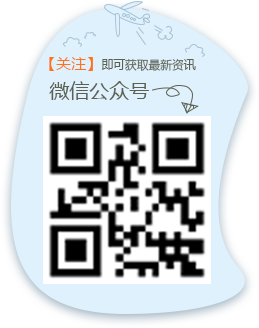
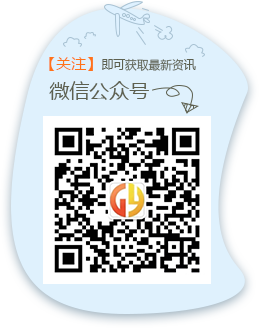
资讯

Changed region(s): [[0.1853, 0.3659, 0.8031, 0.8537]]

diff --git a/src/components/HelpCenter.vue b/src/components/HelpCenter.vue
@@ -25,7 +25,9 @@
             新手上路
           </div>
           <ul class="list">
-            <li v-for="item in 6">安全保障：在众易融平台借款有什么保障措施？</li>
+            <li v-for="item in freshmanList">
+              <a :href="item.url">{{item.title}}</a>
+            </li>
           </ul>
         </div>
         <div class="content" v-if="index==1">
@@ -33,7 +35,9 @@
             常见问题
           </div>
           <ul class="list">
-            <li v-for="item in 6">安全保障：在众易融平台借款有什么保障措施？</li>
+            <li v-for="item in problemList">
+              <a :href="item.url">{{item.title}}</a>
+            </li>
           </ul>
         </div>
         <div class="content" v-if="index==2">
@@ -41,7 +45,9 @@
             温馨提示
           </div>
           <ul class="list">
-            <li v-for="item in 6">安全保障：在众易融平台借款有什么保障措施？</li>
+            <li v-for="item in hintList">
+              <a :href="item.url">{{item.title}}</a>
+            </li>
           </ul>
         </div>
       </el-col>
@@ -51,14 +57,35 @@
 </template>
 
 <script>
+import LoanService from '@/services/LoanService';
+
 export default {
   data() {
     return {
       index: '0',
+      freshmanList: [],
+      problemList: [],
+      hintList: [],
     };
+  },
+  methods: {
+    async fetchList(id) {
+      let list = (await LoanService.contentList({
+        params: {
+          channelIds: id,
+          count: 10,
+          first: this.first,
+        },
+      })).data;
+      list = list.slice(1);
+      return list
+    }
   },
   async mounted() {
     this.index = this.$route.params.index || '0';
+    this.freshmanList = await this.fetchList(114);
+    this.problemList = await this.fetchList(109);
+    this.hintList = await this.fetchList(115);
   },
 };
 </script>
@@ -107,6 +134,9 @@ export default {
         padding-top: 32px;
         font-size: 16px;
         color: $title-color;
+        a{
+          color: $title-color;
+        }
       }
     }
   }

diff --git a/src/components/News.vue b/src/components/News.vue
@@ -8,7 +8,7 @@
           <div class="item" v-for="item in list">
             <img src="../assets/img/news-img.jpg" alt="">
             <div class="content" >
-              <div class="title">{{item.title}}</div>
+              <div class="title"><a :href="item.url">{{item.title}}</a></div>
               <div class="time">
                 2017-11-21  16:31:12
               </div>
@@ -16,13 +16,12 @@
             </div>
           </div>
           <el-pagination
-          @size-change="handleSizeChange"
           @current-change="handleCurrentChange"
           :current-page="currentPage4"
           :page-sizes="[100, 200, 300, 400]"
-          :page-size="100"
+          :page-size="5"
           layout="total, prev, pager, next, jumper"
-          :total="400"
+          :total="total"
           class="pagination">
         </el-pagination>
         </div>
@@ -39,18 +38,32 @@ export default {
   data() {
     return {
       list: [],
+      total: '',
+      first: 0,
     };
   },
   components: {
     TopBar,
   },
-  async mounted() {
-    this.list = (await LoanService.contentList({
-      params: {
-        channelIds: 98,
-      },
-    })).data;
-    this.list.splice(0, 6);
+  methods: {
+    handleCurrentChange(val) {
+      this.first = 5 * (val - 1) - 1;
+      this.fetchNews();
+    },
+    async fetchNews() {
+      this.list = (await LoanService.contentList({
+        params: {
+          channelIds: 98,
+          count: 6,
+          first: this.first,
+        },
+      })).data;
+      this.total = this.list[0].count;
+      this.list = this.list.slice(1);
+    }
+  },
+  mounted() {
+    this.fetchNews();
   },
 };
 </script>
@@ -89,6 +102,9 @@ export default {
             .time{
               font-size: 10px;
               margin-top: 10px;
+              color: $title-color;
+            }
+            a{
               color: $title-color;
             }
             p{

diff --git a/src/components/common/BaseApplicationForm.vue b/src/components/common/BaseApplicationForm.vue
@@ -25,7 +25,7 @@
         ]"
 
       >
-        <el-input type="captcha" v-model.number="applicationForm.captcha" auto-complete="off" placeholder="请输入验证码" class="captcha" size="medium"></el-input>
+        <el-input type="captcha" v-model.number="applicationForm.captcha" auto-complete="off" placeholder="请输入验证码" class="captcha" size="medium" ></el-input>
         <el-button type="primary"  class="getCaptcha" @click="getCaptcha" :disabled="getCaptchaDisabled">
           <span v-show="show">发送验证码</span>
           <span v-show="!show">{{count}}秒后获取</span>
@@ -254,12 +254,17 @@ export default {
             }
           }, 1000);
         }
-        await LoanService.getCaptcha({
+        const response = await LoanService.getCaptcha({
           params: {
             custTel: this.applicationForm.telephone,
           },
         });
+        if (response.code !== 0) {
+          this.timer = null;
+          this.$message.error(response.msg);
+        }
       } catch (e) {
+        console.log(e)
         this.$message.error('请填入正确手机号码');
       }
     },

diff --git a/src/components/PlatformAnnouncement.vue b/src/components/PlatformAnnouncement.vue
@@ -15,7 +15,7 @@
         :page-sizes="[100, 200, 300, 400]"
         :page-size="100"
         layout="total, prev, pager, next, jumper"
-        :total="400"
+        :total="1"
         class="pagination">
       </el-pagination>
       </div>
@@ -31,17 +31,31 @@ export default {
   data() {
     return {
       list: [],
+      total: 0,
     };
   },
   components: {
     TopBar,
   },
+  methods: {
+    handleCurrentChange(val) {
+      this.first = 5 * (val - 1) - 1;
+      this.fetchNews();
+    },
+    async fetchList() {
+      this.list = (await LoanService.contentList({
+        params: {
+          channelIds: 110,
+          count: 6,
+          first: this.first,
+        },
+      })).data;
+      this.total = this.list[0].count;
+      this.list = this.list.slice(1);
+    },
+  },
   async mounted() {
-    this.list = (await LoanService.contentList({
-      params: {
-        channelIds: 110,
-      },
-    })).data;
+    this.fetchList();
   },
 };
 </script>

diff --git a/src/components/common/BaseQuickApplyAndNoob.vue b/src/components/common/BaseQuickApplyAndNoob.vue
@@ -13,18 +13,33 @@
   </div>
   <div class="noob">
     <ul>
-      <li v-for="item in 6">贷款的基本常识有哪些？</li>
+      <li v-for="item in list">贷款的基本常识有哪些？</li>
     </ul>
   </div>
   </div>
 </template>
 
 <script>
+import LoanService from '@/services/LoanService'
 import BaseApplicationForm from '@/components/common/BaseApplicationForm';
 
 export default {
+  data() {
+    return {
+      list: [],
+    };
+  },
   components: {
     BaseApplicationForm,
+  },
+  async mounted() {
+    const response = (await LoanService.contentList({
+      params: {
+        channelIds: 114,
+        count: 6,
+      },
+    })).data;
+    this.list = response.slice(1);
   },
 };
 </script>

diff --git a/src/components/ContactUs.vue b/src/components/ContactUs.vue
@@ -13,7 +13,7 @@
               <p>企业邮箱：service@zyrbanking.com</p>
             </div>
             <div class="code">
-              <img src="../assets/img/code.png" alt="">
+              <img src="../assets/img/code.jpg" alt="" height="80" width="80">
               <span>微信公众号</span>
             </div>
           </div>
@@ -76,7 +76,6 @@ export default {
             position:relative;
             span{
               position: absolute;
-              margin-left: -3px;
             }
           }
         }

diff --git a/build/webpack.base.conf.js b/build/webpack.base.conf.js
@@ -3,6 +3,7 @@ const path = require('path')
 const utils = require('./utils')
 const config = require('../config')
 const vueLoaderConfig = require('./vue-loader.conf')
+require("babel-polyfill");
 
 function resolve (dir) {
   return path.join(__dirname, '..', dir)
@@ -11,7 +12,7 @@ function resolve (dir) {
 module.exports = {
   context: path.resolve(__dirname, '../'),
   entry: {
-    app: './src/main.js',
+    app: ["babel-polyfill", "./src/main.js"],
   },
   output: {
     path: config.build.assetsRoot,

diff --git a/src/services/LoanService.js b/src/services/LoanService.js
@@ -25,7 +25,7 @@ export default {
     return Api().post('feedback', feedback);
   },
   // index/contentList?channelIds=107
-  // 98(行业新闻);107(贷款资讯);109(常识讲堂);110(平台公告)
+  // channelIds:98(行业新闻);107(贷款资讯);109(常识讲堂);110(平台公告);113(成功案例);114(新手上路);115(温馨提示)
   contentList(params) {
     return Api().get('contentList', params);
   },
